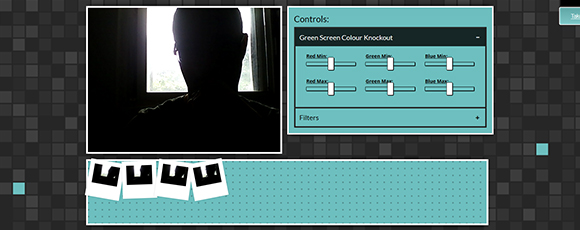
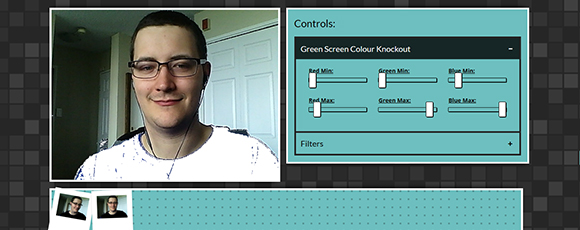
JavaScript30 - 19 - Image + Fixing Green Screen, Still need Filters

diff --git a/src/pages/portfolio/development/javascript30/19-webcam-fun.html b/src/pages/portfolio/development/javascript30/19-webcam-fun.html
@@ -83,7 +83,7 @@ canonical: https://corey-noble.com/portfolio/development/javascript30/19-webcam-
 
                                 <div class="accordion-content" data-tab-content="" role="tabpanel" aria-labelledby="green-screen" aria-hidden="true" id="green-screen" style="display: none;">
                                     <!-- Content -->
-                                    <div class="row">
+                                    <div class="row rgb">
                                         <div class="small-6 medium-4 columns">
                                             <label for="rmin">Red Min:</label>
                                             <input type="range" min=0 max=255 name="rmin">
@@ -113,11 +113,9 @@ canonical: https://corey-noble.com/portfolio/development/javascript30/19-webcam-
 
                                 <div class="accordion-content" data-tab-content="" role="tabpanel" aria-labelledby="filters" aria-hidden="true" id="filters" style="display: none;">
                                     <!-- Content -->
-                                    <div class="rgb">
-                                        <div class="row">
-                                            <div class="small-12 columns">
-                                                <h4 class="h6">TEST</h4>
-                                            </div>
+                                    <div class="row">
+                                        <div class="small-12 columns">
+                                            <h4 class="h6">TEST</h4>
                                         </div>
                                     </div>
                                 </div>
